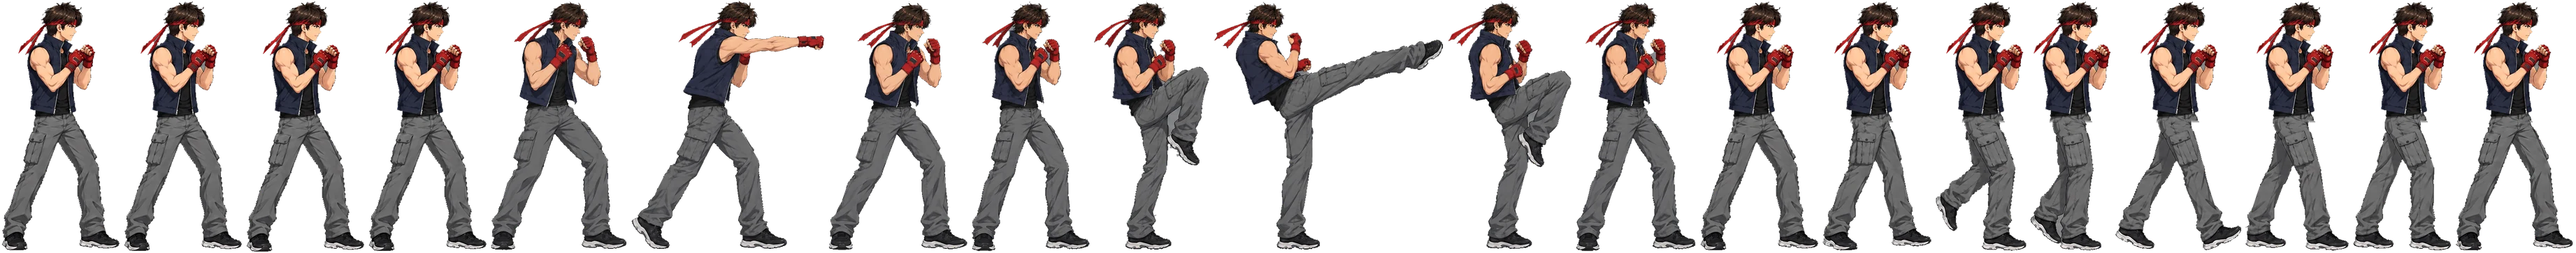
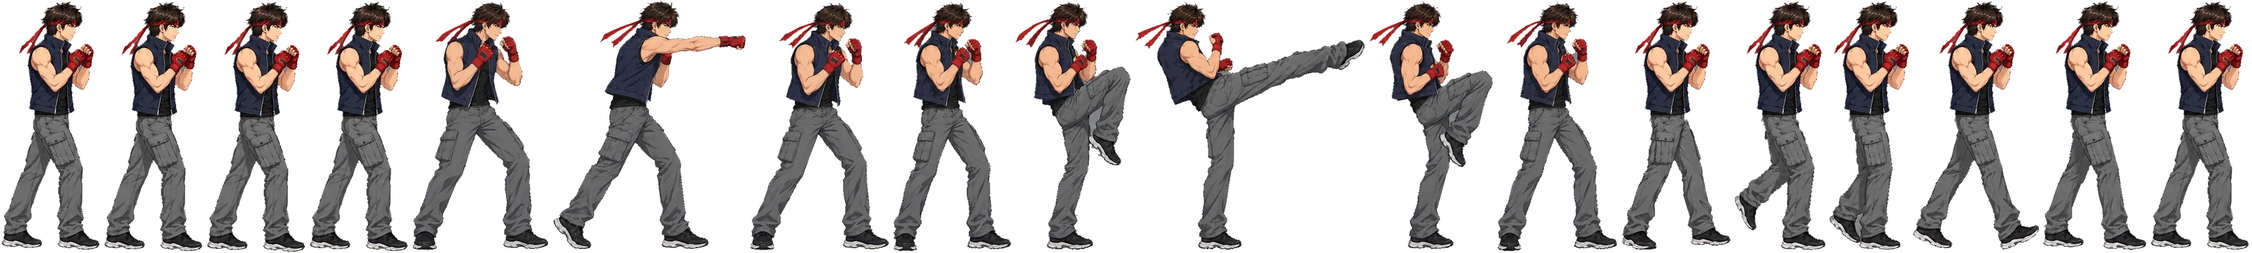
首頁：走路不再像扭了一圈
8 格走路圖的第 1、8 格把有大口袋的近側腿畫在後面，其他格都在前面，
換格時骨盆像轉了一圈。改用第 2～7 格循環，待機和上半身也改從第 7 格
（雙腳站穩）來做，走路和待機用同一個定位點。

Claude-Session: https://claude.ai/code/session_01RpBj6GpKSTHhCxQHHpgiKf

diff --git a/index.html b/index.html
@@ -67,8 +67,8 @@ a.card:focus-visible{outline:3px solid #3B2D52;outline-offset:3px}
 <script>
 // 首頁試玩：紅巾拳士。圖集 img/hero.webp（待機、出拳、踢腿、走路），每格記錄在圖集的位置與相對腳尖的偏移
 (() => {
-const F = {"idle":[{"x":0,"y":0,"w":173,"h":361,"ox":-172,"oy":-359},{"x":175,"y":0,"w":173,"h":362,"ox":-172,"oy":-360},{"x":350,"y":0,"w":173,"h":363,"ox":-172,"oy":-361},{"x":525,"y":0,"w":173,"h":362,"ox":-172,"oy":-360}],"punch":[{"x":700,"y":0,"w":199,"h":361,"ox":-195,"oy":-358},{"x":901,"y":0,"w":280,"h":360,"ox":-215,"oy":-357},{"x":1183,"y":0,"w":203,"h":361,"ox":-195,"oy":-358}],"kick":[{"x":1388,"y":0,"w":173,"h":363,"ox":-171,"oy":-361},{"x":1563,"y":0,"w":169,"h":361,"ox":-113,"oy":-359},{"x":1734,"y":0,"w":333,"h":361,"ox":-155,"oy":-359},{"x":2069,"y":0,"w":181,"h":360,"ox":-123,"oy":-358},{"x":2252,"y":0,"w":176,"h":363,"ox":-174,"oy":-361}],"walk":[{"x":2430,"y":0,"w":173,"h":361,"ox":-172,"oy":-359},{"x":2605,"y":0,"w":160,"h":362,"ox":-165,"oy":-359},{"x":2767,"y":0,"w":134,"h":362,"ox":-163,"oy":-359},{"x":2903,"y":0,"w":119,"h":362,"ox":-152,"oy":-359},{"x":3024,"y":0,"w":184,"h":361,"ox":-184,"oy":-359},{"x":3210,"y":0,"w":152,"h":362,"ox":-164,"oy":-359},{"x":3364,"y":0,"w":145,"h":361,"ox":-171,"oy":-359},{"x":3511,"y":0,"w":172,"h":362,"ox":-174,"oy":-359}]};
-const MS = {idle: [220, 180, 260, 180], punch: [50, 130, 110], kick: [60, 80, 170, 90, 80], walk: [120, 120, 120, 120, 120, 120, 120, 120]};
+const F = {"idle":[{"x":0,"y":0,"w":145,"h":360,"ox":-143,"oy":-359},{"x":147,"y":0,"w":145,"h":362,"ox":-143,"oy":-361},{"x":294,"y":0,"w":145,"h":363,"ox":-143,"oy":-362},{"x":441,"y":0,"w":145,"h":362,"ox":-143,"oy":-361}],"punch":[{"x":588,"y":0,"w":199,"h":361,"ox":-195,"oy":-358},{"x":789,"y":0,"w":280,"h":360,"ox":-215,"oy":-357},{"x":1071,"y":0,"w":203,"h":361,"ox":-195,"oy":-358}],"kick":[{"x":1276,"y":0,"w":173,"h":363,"ox":-171,"oy":-361},{"x":1451,"y":0,"w":169,"h":361,"ox":-113,"oy":-359},{"x":1622,"y":0,"w":333,"h":361,"ox":-155,"oy":-359},{"x":1957,"y":0,"w":181,"h":360,"ox":-123,"oy":-358},{"x":2140,"y":0,"w":176,"h":363,"ox":-174,"oy":-361}],"walk":[{"x":2318,"y":0,"w":160,"h":361,"ox":-137,"oy":-359},{"x":2480,"y":0,"w":134,"h":361,"ox":-135,"oy":-359},{"x":2616,"y":0,"w":117,"h":361,"ox":-124,"oy":-359},{"x":2735,"y":0,"w":184,"h":360,"ox":-156,"oy":-359},{"x":2921,"y":0,"w":152,"h":361,"ox":-136,"oy":-359},{"x":3075,"y":0,"w":145,"h":360,"ox":-143,"oy":-359}]};
+const MS = {idle: [220, 180, 260, 180], punch: [50, 130, 110], kick: [60, 80, 170, 90, 80], walk: [120, 120, 120, 120, 120, 120]};
 const SCALE = 0.5, CENTER = 97, SPEED = 125, GROUND = 24;   // 圖集 → 畫面縮放、腳尖到身體中心、每秒移動 px、地面離底部 px
 const stage = document.getElementById('stage'), cv = document.getElementById('hero'), ctx = cv.getContext('2d');
 const img = new Image();
